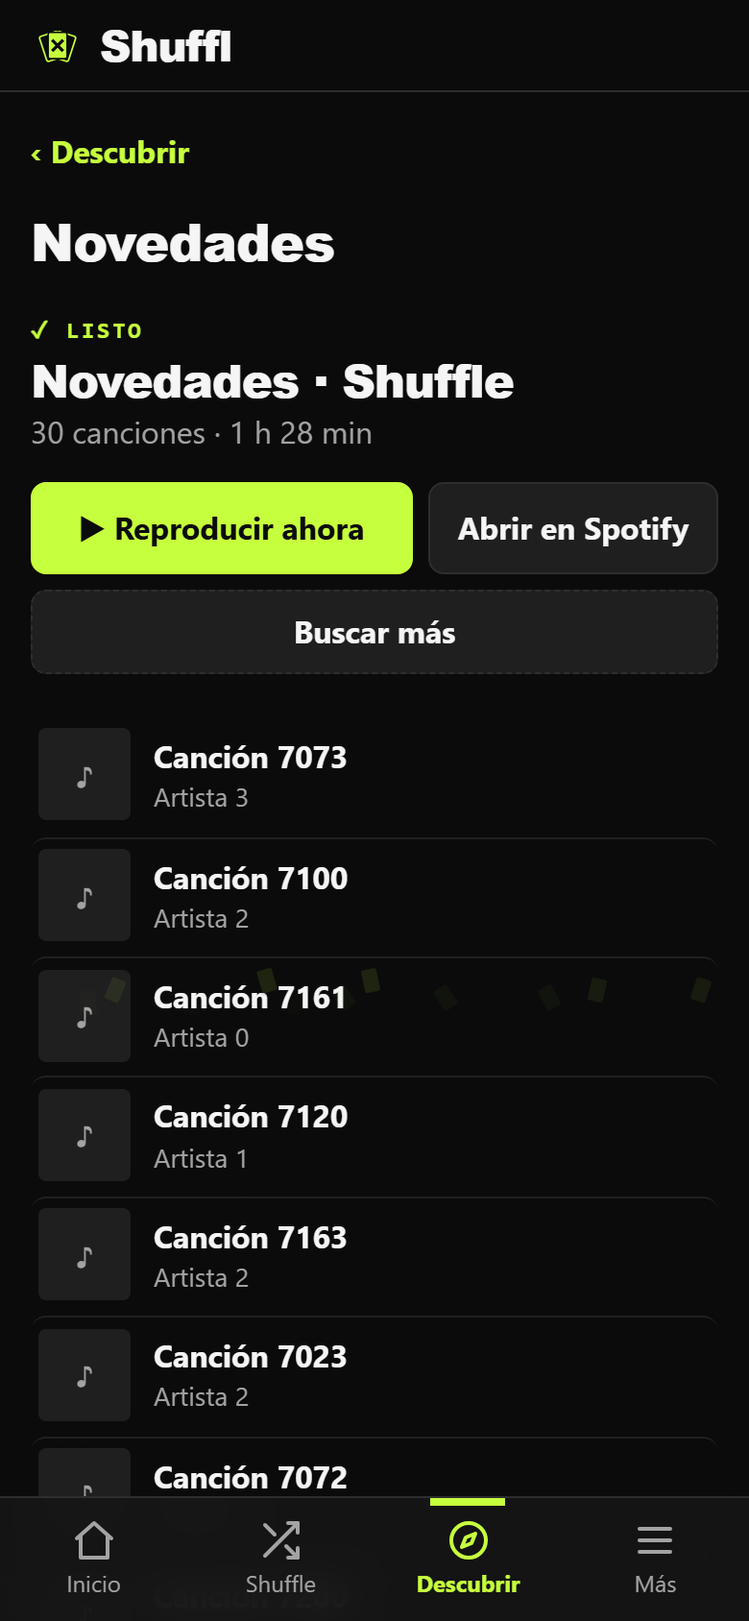
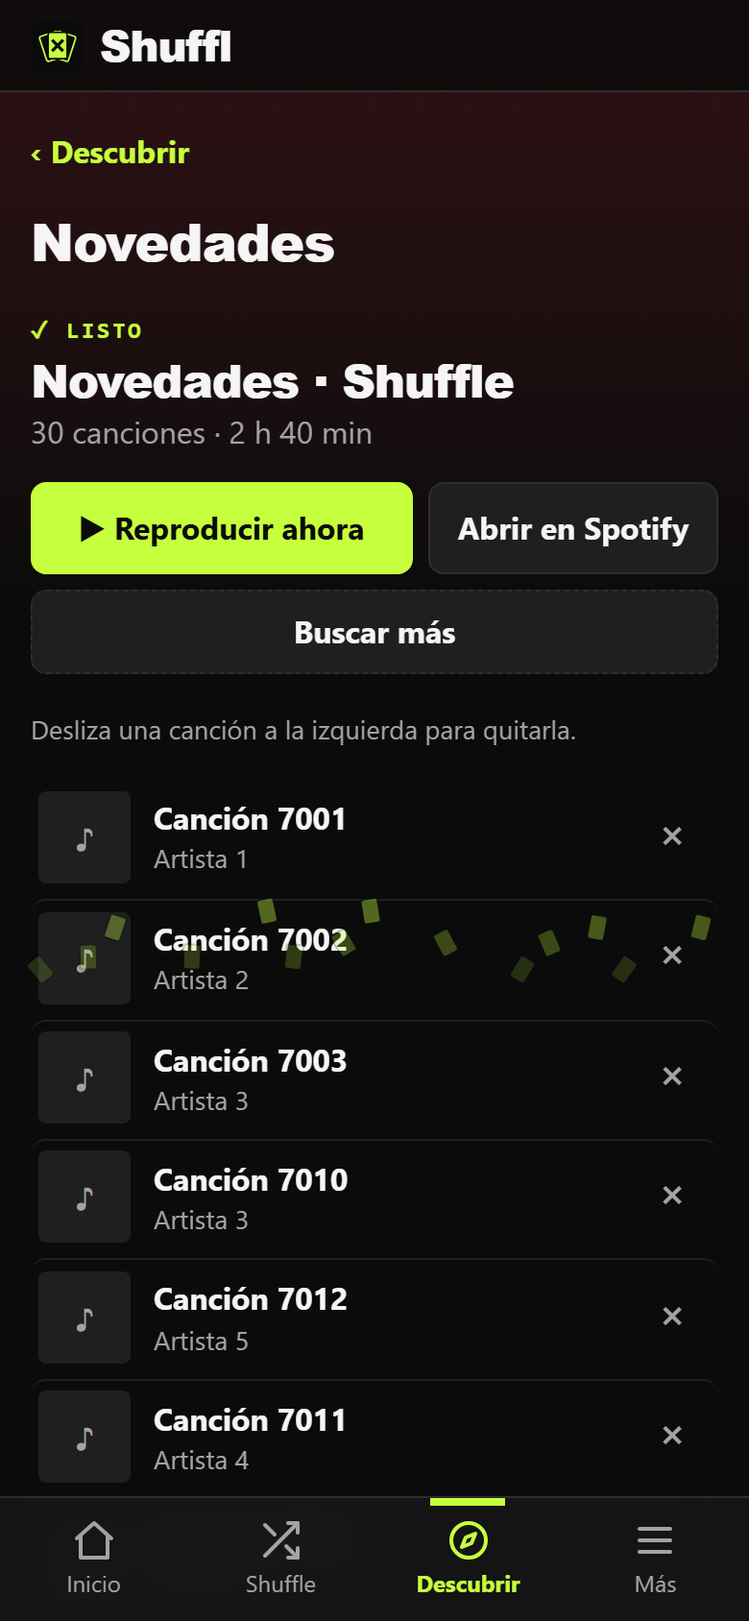
docs: v1.3.2 (decisiones con la tabla de peticiones, changelog y cómo probar)
DECISIONES recoge la tabla de peticiones antes y después y el porqué de
cada cambio; SIGUIENTES_PASOS explica cómo hacer la Prueba completa con
la cuenta real. PRIVACY describe la caché en IndexedDB y el registro de
errores; CLAUDE.md añade el GET del reproductor y las reglas de cuota y
errores. Capturas regeneradas con la interfaz nueva.

diff --git a/DECISIONES.md b/DECISIONES.md
@@ -2,6 +2,133 @@
 
 Trabajo hecho sin supervisión el 2026-11-23. Todo lo reversible lo decidí yo; lo demás está en [docs/bandeja.md](docs/bandeja.md).
 
+## v1.3.2 (2026-11-27): cero errores, cuota bajo control, shuffle por tiempo y carátulas en todas partes
+
+### Cuota: peticiones por acción
+
+Lo mide `tests/e2e/quota.spec.mjs` con una cuenta simulada de tamaño realista: 16 playlists (una de 600 canciones), 1500 Me gusta, 50 artistas top por periodo, 120 seguidos y lanzamientos para 120 artistas. Cuenta todas las peticiones a `api.spotify.com`, reintentos incluidos.
+
+| Acción | Antes (v1.3.1) | Ahora (v1.3.2) |
+|---|---|---|
+| Arranque (login y biblioteca) | 3 | 3 |
+| Shuffle de una playlist de 600 (1.ª vez) | 22 | 21 |
+| Shuffle de la misma playlist otra vez | 24 | 11 |
+| Volver a barajar | 9 | 8 |
+| Reproducir ahora | 3 | 4 (con la comprobación) |
+| Novedades (1.ª vez) | **202** | 32 |
+| Buscar más | 2* | 13 |
+| Descubre (después de Novedades) | 18 | 23 |
+| Descubre (1.ª vez, sin caché) | — | 25 |
+| Instantánea | 7 | 6 |
+| Tu resumen | 2 | 2 |
+| Tu resumen → playlist | 7 | 6 |
+| Olvidadas (1.ª vez, 1500 Me gusta) | 51* | 37 (31 son leer Me gusta) |
+| Olvidadas (2.ª vez) | 21* | 7 |
+| Comprobar conexión | — | 6 |
+| Prueba completa (con reproducción) | — | 14 |
+
+\* Olvidadas antes: medido con esta versión antes del tope de 100 (la v1.3.1 leía igual Me gusta y escribía todas). En la v1.3.1 «Buscar más» salía barato porque la primera búsqueda ya había leído 25 artistas de golpe; ahora cada búsqueda lee como mucho unas 30 peticiones y «Buscar más» sigue con los siguientes artistas.
+
+- **De dónde salían las 202 de Novedades**: el índice de «lo que ya tienes» leía todas tus playlists y Tus me gusta enteras (unas 70), dos peticiones por artista (álbumes y singles) para 25 artistas (50) y una por cada álbum reciente.
+- **Qué se ha cambiado**:
+  - **Caché persistente en IndexedDB** (`js/idb.js`), con el id de la cuenta en la clave. Las canciones de cada playlist valen mientras no cambie su `snapshot_id` (como mucho 30 días). Tus me gusta se valida con una sola petición: el total y la más reciente. Los álbumes valen 30 días (no cambian) y los artistas, lanzamientos y búsquedas, 24 h. Lo de más de 30 días se borra al abrir la app y todo al cerrar sesión. La caché de localStorage de la v1.3.1 (`metaCache`, `libIndex`) se borra al arrancar.
+  - **Lista de playlists reciente antes de fiarse de la caché**: si tiene más de un minuto, se relee (una petición por cada 50 playlists). Si cambiaste una en Spotify y vuelves, su `snapshot_id` ya no coincide y se vuelve a leer.
+  - **Lo que escribe en su propio origen no usa la caché**: «la misma playlist», Ordenar, Duplicados y Dividir leen siempre de Spotify, porque de esa lectura sale el Deshacer.
+  - **Excluir lo que ya tienes**:
+    - Tus me gusta ya no se lee entera: se pregunta a `/me/library/contains` solo por las candidatas, en lotes de 40.
+    - Tus playlists salen de la caché; las que cambiaron se leen con un tope de 8 peticiones por búsqueda (las que no caben usan su copia anterior o se leen la próxima vez).
+  - **Una petición por artista**: `include_groups=album,single` con `limit=10`. Un artista con más de 10 singles recientes puede dejar fuera un álbum; se acepta por la mitad de peticiones.
+  - **Tope por búsqueda**: `READ_BUDGET = 30` peticiones de lectura por búsqueda; la escritura (quitar la anterior, crear, añadir y portada) suma unas 6.
+    - «Artistas por búsqueda» (8, 15 o 25; por defecto 15) en «Más opciones», guardado en el dispositivo.
+    - «Buscar más» sigue con los artistas donde se quedó y con lo leído en la caché.
+    - De los seguidos se leen como mucho 2 páginas (100 artistas, el máximo que se recorre). Descubre empieza por 8 álbumes de lo que escuchas, en vez de 25.
+  - **Sin lecturas de más tras escribir**:
+    - Después de crear una playlist de Shuffl ya no se relee toda la biblioteca: no aparece en los selectores y las quitadas se descuentan en memoria. Solo se relee al escribir en tu propia playlist.
+    - «Buscar más» y «Volver a barajar» comprueban que la playlist sigue siendo de Shuffl con 2 peticiones (sus datos y `/me/library/contains`) en vez de leer toda la biblioteca.
+    - «Volver a barajar» no vuelve a subir la portada, que no cambia.
+  - **Olvidadas**: como mucho 100 canciones al azar entre las olvidadas. Una playlist de 1500 eran 15 peticiones solo para escribir. «Volver a barajar» elige otras 100.
+  - **Reintentos**: un 429 sin cuota se reintenta 2 veces (antes 5) y nunca si `Retry-After` pasa de 30 s. Un 5xx se reintenta 2 veces (antes 3). Las órdenes al reproductor no se repiten en el cliente: «Reproducir ahora» comprueba el resultado y decide.
+- **QUOTA_EXCEEDED**:
+  - Nunca se reintenta.
+  - En Novedades y Descubre, si llega a mitad de búsqueda y hay al menos 10 canciones, se crea la playlist con ellas y una nota; si hay menos, se explica sin crear nada.
+  - Mensaje: «Spotify limita cuántas búsquedas puede hacer la app. Vuelve a intentarlo en un rato.», sin «Reintentar» (gastaría más).
+  - El shuffle de una playlist ya leída sigue funcionando sin leerla (hay un test).
+- **Contador** en Diagnóstico: peticiones de la sesión, del día (en localStorage) y de las últimas 12 acciones. Lo cuenta `SpotifyApi` con `onRequest` antes de cada `fetch`.
+- **Lo que no se puede bajar**:
+  - Leer por primera vez una playlist o Tus me gusta cuesta una petición por cada 50 canciones.
+  - Escribir cuesta una por cada 100.
+  - Esa primera lectura de una biblioteca grande (Olvidadas con 3000 Me gusta, un shuffle de una playlist de 2000) pasa de 40 una vez; después sale de la caché.
+
+### Errores: mensaje humano y una acción
+
+- **`errorInfo`** clasifica cada error: sesión caducada, falta un permiso, cuenta no añadida en el dashboard, prohibido, Premium, no encontrado, ritmo, Spotify caído (5xx), sin red, cuota, respuesta incompleta o fallo inesperado.
+  - Para cada tipo da un texto en ES/EN y sus acciones: «Reintentar» si es pasajero, «Volver a conectar» con sesión o permisos, y «Abrir en Spotify» al reproducir.
+  - Ningún texto lleva códigos («403») ni mensajes de Spotify.
+  - Un `UserError` que envuelve otro («No se pudo crear la playlist: …») hereda la acción de su causa.
+- **`task`** ofrece «Reintentar» (repetir la acción, como volver a pulsar) en los errores pasajeros.
+- **Red de seguridad**: un error que no recoge ninguna pantalla (promesa sin capturar, excepción) se registra y sale en un aviso con «Diagnóstico». Si la sesión falla al arrancar, se ve el motivo con «Reintentar» y, si toca, «Volver a conectar»; nunca una pantalla en blanco.
+- **Respuestas raras**: JSON roto, playlist creada sin id, Me gusta sin total y listas sin `items` dan «respuesta incompleta», no un fallo raro.
+- **Registro local** (`baraja.errors`, 50 como mucho):
+  - Guarda fecha, pantalla, tipo, código de estado, `reason` de Spotify, la ruta de la API sin ids ni consulta (`GET /playlists/:id/items`) y el mensaje de Spotify con los ids tapados.
+  - Nunca el texto que ve la persona, que puede llevar nombres de playlists.
+  - «Copiar informe» usa el portapapeles; si no hay permiso, enseña el texto para copiarlo a mano.
+- **Reproducir ahora** (`js/player.js`, lógica pura con tests):
+  1. Lee los dispositivos y descarta los `is_restricted`. Usa el activo, o el único; si hay varios, pregunta.
+  2. Sin ninguno: «Abre Spotify un momento y vuelve a pulsar», con «Volver a intentar» y «Abrir en Spotify».
+  3. Orden: `play` con `context_uri` y `offset 0` en ese dispositivo y después `shuffle=false`. Así el orden funciona aunque el dispositivo estuviera inactivo, porque `shuffle` antes de `play` da 404.
+  4. Espera 1,2 s y lee `GET /me/player`: suena esta playlist, sin aleatorio ni aleatorio inteligente y no en pausa. Si no, repite la orden una vez y lo explica.
+  - Casos: `NO_ACTIVE_DEVICE`, dormido (502/503), restringido, sin Premium, prohibido, aleatorio que no se apaga, orden aceptada pero no ejecutada (204 sin efecto) y sin poder comprobar («Enviada a…»). Sin Premium, restringido y prohibido no se reintentan.
+  - `GET /me/player` usa el scope `user-read-playback-state`, que ya se pedía; se añade a la lista de CLAUDE.md.
+- **Prueba completa** (Más → Diagnóstico, unas 14 peticiones):
+  1. Sesión.
+  2. Leer playlists.
+  3. Permisos.
+  4. Una canción (la última de Me gusta o la primera de una playlist tuya).
+  5. Crear la playlist de prueba de Shuffl con esa canción.
+  6. Sobrescribirla y comprobar el total.
+  7. Reconocerla como de Shuffl.
+  8. Dispositivos.
+  9. Reproducir y comprobar (opcional, marcado por defecto y avisando de que sonará una canción).
+  10. Quitarla.
+  - La playlist de prueba se quita aunque falle un paso intermedio.
+  - El informe lleva el resultado de cada paso sin nombres (ni el de la cuenta ni el del dispositivo).
+- **Diagnóstico** pasa de Ajustes a su propia pantalla en Más, con «Comprobar conexión» incluido.
+- **Tests e2e** para 401, 403 (dashboard, scope y prohibido), 404, 429 con y sin cuota, 5xx, red caída, respuestas con huecos, sin dispositivo, dormido, restringido, sin Premium, orden ignorada, aleatorio que no se apaga y error inesperado. El mock admite fallos a medida (`state.failures`: ruta, estado, cuerpo, `times` y `skip`) y el estado del reproductor.
+
+### Shuffle por tiempo, a la vista
+
+- Bajo las playlists, «¿Cuánto?»: **Toda la playlist / Por tiempo**. Por tiempo enseña 5 accesos rápidos (Trayecto 20, Gym 45, Correr 30, Viaje 90, Dormir 30) y «A medida», con un deslizador de 5 a 180 min de 5 en 5. El botón dice «Barajar 45 min».
+- Correr y Dormir duran lo mismo (30 min), así que se guarda la clave del acceso, no solo los minutos. Si una mezcla trae una clave que no existe o unos minutos que no son los del acceso, se trata como «a medida».
+- Nombres: «Gym 45 min · Shuffle» con un acceso rápido y «Rock · 45 min · Shuffle» a medida. Si el origen es largo se recorta él, nunca los minutos. Como llevan la etiqueta con el resumen del nombre, se reconocen como de Shuffl y, si se renombran, no se borran.
+- Las mezclas de antes con más de 180 min se cargan con el deslizador a 180.
+- El resultado dice «Listo · 45 min ± 2» y la duración real («22 canciones · 44 min»).
+- **Siri**: los atajos abren una mezcla guardada, que ahora recuerda el tiempo y el acceso rápido. No se añade un parámetro de tiempo a los enlaces `?origen=`, para no ampliar lo que acepta un enlace de fuera.
+
+### Carátulas en todas partes
+
+- Una fila común (`trackRow` + `coverSlot`) en resultados (Shuffle, Novedades, Descubre, Olvidadas, Instantáneas, Mi top, Ordenar, Me gusta sin playlist), en las listas de Tu resumen (artistas y canciones), en los grupos de Duplicados y en las partes de Dividir (con la carátula de su primera canción).
+- El hueco mide siempre 48×48 con ♪ de fondo y la imagen va encima, en diferido (`loading="lazy"`) y con `object-fit: contain`: nada salta, no se recorta ni se pone nada encima. Si la imagen falla, se quita y queda el hueco.
+- **Imagen**: la que ya trae la respuesta, sin peticiones extra. `pickThumb` elige la más pequeña que llega a 120 px (48 px en pantallas de 3x); si Spotify no da tamaños, la penúltima (la de 300).
+- **Por qué faltaban en Descubre**: los álbumes de «lo que escuchas» se pedían sin sus imágenes. Ahora llevan la miniatura de la canción escuchada, y los lanzamientos guardan todas sus imágenes con tamaño, no solo las dos últimas.
+- En la Copia de seguridad se listan playlists de un archivo, que no traen imagen, y se dejan como estaban.
+- La carátula de la tarjeta de Inicio pasa de `cover` a `contain` (no se recorta).
+- **Test** (`tests/e2e/covers.spec.mjs`): recorre todas esas pantallas y falla si una fila no tiene su carátula https de 48×48 entera.
+
+### Más interactiva
+
+- **Flujo elegido**: guardar con un toque, como antes, y editar después. Una vista previa antes de enviar añadiría un paso a cada shuffle y a Siri.
+  - **Quitar**: en el resultado, deslizar una canción a la izquierda (o tocar su ×, accesible con teclado y lector) la quita. Los cambios se guardan de una vez 1,2 s después del último, tras comprobar que la playlist sigue siendo de Shuffl.
+  - **Rebarajar**: el botón «Volver a barajar» (con el icono de la app) o tirar hacia abajo rebarajan la misma playlist. Las quitadas no vuelven.
+  - Solo en playlists de Shuffl, nunca en la tuya («la misma playlist»).
+  - «Buscar más» guarda antes lo pendiente.
+  - Tirar hacia abajo fuera de un resultado sigue refrescando tus playlists.
+- **Animaciones**:
+  - Las carátulas se reparten como naipes al aparecer (solo `transform` y `opacity`, 45 ms de desfase entre filas).
+  - El fondo toma el color dominante de la portada del origen o, en Descubrir, de la primera carátula.
+  - Los botones responden al toque con una pequeña escala.
+  - Con «reducir movimiento» no hay animaciones (regla global de la v1.2).
+- **Estados vacíos** con una ilustración en SVG (tres naipes con una nota) en Descubrir, Olvidadas, Tu resumen y Me gusta sin playlist.
+
 ## v1.3.1 (2026-11-27): correcciones tras probar con Spotify real en el iPhone
 
 - **Por qué no se borraba nada**:

diff --git a/README.md b/README.md
@@ -22,10 +22,10 @@ Las funciones salen de quejas reales de usuarios (hilos de Spotify Community, pr
 
 ![Inicio](docs/capturas/08-inicio.png)
 
-- Cuatro pestañas: **Inicio · Shuffle · Descubrir · Más**. En Más están Ordenar, Duplicados, Copia, Instantáneas, Me gusta sin playlist, Dividir, «Tenerla siempre a mano», «¿Es aleatorio de verdad?» y Ajustes.
+- Cuatro pestañas: **Inicio · Shuffle · Descubrir · Más**. En Más están Ordenar, Duplicados, Copia, Instantáneas, Me gusta sin playlist, Dividir, «Tenerla siempre a mano», «¿Es aleatorio de verdad?», Diagnóstico y Ajustes.
 - Inicio tiene una tarjeta con tu última baraja (carátula, nombre y fecha) y «Volver a barajar»; la primera vez, «Empezar». Debajo, «Lo último» y tus mezclas guardadas.
 - Negro y verde lima. Tema oscuro por defecto, claro (blanco con verde oscuro) o como el sistema, en Ajustes. El fondo toma un degradado sutil del color de la portada seleccionada.
-- Cambio de pantalla inmediato con un fundido corto y sin saltos (cada pestaña recuerda dónde la dejaste), pantalla «Barajando…» con naipes que se mezclan y el paso real, resultado en cascada con una celebración discreta, esqueletos de carga, deslizar a los lados para cambiar de pestaña y tirar hacia abajo para refrescar. Con «reducir movimiento» no hay animaciones.
+- Cambio de pantalla inmediato con un fundido corto y sin saltos (cada pestaña recuerda dónde la dejaste), pantalla «Barajando…» con naipes que se mezclan y el paso real, resultado con las carátulas repartiéndose como naipes y una celebración discreta, esqueletos de carga, deslizar a los lados para cambiar de pestaña y tirar hacia abajo para refrescar. Con «reducir movimiento» no hay animaciones.
 - **Agitar para barajar**: en Inicio, agitar el móvil vuelve a barajar la última mezcla, siempre tras confirmar. En iPhone hay que activarlo con un toque (permiso del acelerómetro); se desactiva en Ajustes.
 
 ![Tema claro](docs/capturas/09-tema-claro.png)
@@ -36,7 +36,7 @@ Las funciones salen de quejas reales de usuarios (hilos de Spotify Community, pr
 
 ![Barajar](docs/capturas/02-barajar.png)
 
-- Un solo modo, por canciones. En «Más opciones» está **Por tiempo**: 15, 30, 45, 60 min o los que quieras; se baraja de forma uniforme y se llena el tiempo con ±2 min («35 min · Shuffle»), para el trayecto, el gym o correr.
+- Debajo de las playlists eliges **Toda la playlist** o **Por tiempo**. Por tiempo tiene accesos rápidos (🚗 Trayecto 20 min, 🏋 Gym 45, 🏃 Correr 30, ✈ Viaje 90, 😴 Dormir 30) y «A medida», con un deslizador de 5 a 180 min. Se baraja de forma uniforme y se llena el tiempo con ±2 min: «Gym 45 min · Shuffle» o, a medida, «Rock · 45 min · Shuffle». Las mezclas guardadas y los atajos de Siri recuerdan el tiempo.
 - Quitar repetidas, filtros, destino, pegar enlace y guardar como mezcla también están en «Más opciones»; sin tocarlos funciona bien.
 
 ![Shuffle por tiempo](docs/capturas/24-shuffle-tiempo.png)
@@ -46,7 +46,8 @@ Las funciones salen de quejas reales de usuarios (hilos de Spotify Community, pr
   - Una playlist nueva de Shuffl (por defecto): «Reggaeton · Shuffle», «Tus me gusta · Shuffle», «Mix · Shuffle» (varias playlists; la descripción las lista), «Coche · Shuffle» (mezcla guardada) o «Toda mi música · Shuffle». Sustituye a la anterior de Shuffl (ver abajo).
   - La propia playlist, solo con una playlist tuya y con confirmación.
 - La portada de la playlist generada lleva el icono de Shuffl, el nombre del origen y la fecha (se desactiva en Ajustes).
-- El resultado enseña el nombre, las canciones y la duración, con «▶ Reproducir ahora» (Premium) y «Abrir en Spotify», y la lista de canciones con la carátula de su álbum. También puedes volver a barajar, compartirla o pulsar Deshacer.
+- El resultado enseña el nombre, las canciones y la duración, con «▶ Reproducir ahora» (Premium) y «Abrir en Spotify», y la lista de canciones con la carátula de su álbum. Desliza una canción a la izquierda (o toca su ×) para quitarla de la playlist; tira hacia abajo o toca «Volver a barajar» para rebarajarla al momento. También puedes compartirla o pulsar Deshacer.
+- «Reproducir ahora» busca tu Spotify, pone la playlist desde la primera canción, apaga el aleatorio y comprueba que de verdad suena así. Si el móvil no está activo, pide abrir Spotify un momento; sin Premium, en un dispositivo que no se deja controlar o si Spotify no hace caso, lo explica y ofrece abrirla en Spotify.
 
 ![Resultado de barajar](docs/capturas/03-resultado-barajar.png)
 
@@ -57,7 +58,7 @@ Las funciones salen de quejas reales de usuarios (hilos de Spotify Community, pr
 - Cada vez que Shuffl va a crear una playlist (shuffle, Descubrir, Olvidadas, Instantáneas, Mi top), primero lee las canciones, después quita de tu biblioteca todas las playlists que creó antes y por último crea la nueva. Así solo existe una, la última.
 - Son de Shuffl las tuyas con su etiqueta en la descripción (` · shuffl:src=<hash>`, sin ids ni nombres) o, las de versiones anteriores, con un nombre «… · Shuffle», «📸 …» o «🔀 Baraja» y una descripción de las que ponía la app. Nunca se tocan las que renombraste, las de otras personas, las colaborativas ni las que no tienen esa descripción, y no se ofrecen como origen.
 - La primera vez se enseña la lista con «Borrar y no volver a preguntar»; después es automático, con un aviso. Se desactiva en Ajustes. Lo quitado se recupera durante 90 días en spotify.com → Cuenta → Recuperar playlists.
-- Si quitar o crear falla, se ve el error real de Spotify con «Reintentar» (las canciones siguen en memoria). «Comprobar conexión», en Ajustes, prueba que Shuffl puede quitar playlists.
+- Si quitar o crear falla, se explica qué ha pasado con «Reintentar» (las canciones siguen en memoria). «Comprobar conexión», en Más → Diagnóstico, prueba que Shuffl puede quitar playlists.
 - Como cada shuffle crea una playlist nueva, el pin de Tu biblioteca no se conserva: ordena Tu biblioteca por «Recientes» para tenerla arriba.
 
 ### Descubrir
@@ -67,10 +68,14 @@ Spotify ya no ofrece recomendaciones a apps como esta, así que Shuffl las busca
 - **Novedades**: lanzamientos de los últimos 7, 30 o 90 días.
 - **Descubre**: canciones de los álbumes que escuchas y de tus artistas.
 - En las dos: unas 30 canciones y «Buscar más» para añadir otras 30 a la misma playlist; en «Más opciones», número (15-100) o duración (30-90 min). Se basan en tus artistas, en una playlist tuya («Como mi playlist…») o en un género (si Spotify da géneros para tus artistas). Nunca salen canciones que ya tienes en tus playlists o en Tus me gusta.
-- **Olvidadas**: Me gusta de hace más de 1, 2, 3 o 5 años.
+- **Olvidadas**: 100 al azar entre tus Me gusta de hace más de 1, 2, 3 o 5 años.
 - **Tu resumen**: tus 5 artistas y canciones top (4 semanas, 6 meses o siempre) en una tarjeta vertical para historias (1080×1920) y otra cuadrada, para compartir o descargar. Las carátulas van enteras y sin nada encima, junto al logo de Spotify. Puedes crear «Mi top · Shuffle».
 
-Lo que se lee de Spotify (artistas, lanzamientos, canciones de cada álbum y qué canciones tienes) se guarda en el dispositivo hasta 24 h para gastar menos peticiones.
+Spotify limita cuántas peticiones hace cada app, así que Shuffl ahorra: cada búsqueda se para en unas 30 lecturas (en «Más opciones» eliges cuántos artistas mira cada vez), «Buscar más» sigue donde se quedó y lo leído se guarda en el dispositivo (IndexedDB): canciones de tus playlists mientras no cambien, álbumes 30 días, artistas y lanzamientos 24 h. Para no proponerte lo que ya tienes en Me gusta, solo pregunta por las canciones candidatas. Si Spotify corta a mitad, se guarda lo conseguido.
+
+### Diagnóstico
+
+En Más → Diagnóstico: cuántas peticiones lleva la sesión y el día (y cada acción), «Comprobar conexión», una **Prueba completa** que con tu cuenta comprueba paso a paso entrar, leer, crear, sobrescribir y quitar una playlist de prueba, tus dispositivos y la reproducción, y el registro de los últimos errores con «Copiar informe» (sin nombres ni tokens). Ningún error sale en código: siempre un mensaje claro con «Reintentar», «Volver a conectar» o «Abrir en Spotify».
 
 ![Descubrir](docs/capturas/21-descubrir.png)
 

diff --git a/README.en.md b/README.en.md
@@ -24,10 +24,10 @@ The app interface is available in Spanish and English; the screenshots are in Sp
 
 ![Home](docs/capturas/08-inicio.png)
 
-- Four tabs: **Home · Shuffle · Discover · More**. More holds Sort, Duplicates, Backup, Snapshots, Liked without playlist, Split, "Keep it at hand", "Is it really random?" and Settings.
+- Four tabs: **Home · Shuffle · Discover · More**. More holds Sort, Duplicates, Backup, Snapshots, Liked without playlist, Split, "Keep it at hand", "Is it really random?", Diagnostics and Settings.
 - Home shows a card with your last shuffle (cover, name and date) and "Shuffle again"; the first time, "Get started". Below, "Recent" and your saved mixes.
 - Black and lime green. Dark theme by default, light (white with dark green) or like the system, in Settings. The background takes a subtle gradient from the selected cover's colour.
-- Instant screen changes with a short fade and no jumps (each tab remembers where you left it), a "Shuffling…" screen with cards shuffling and the real step, cascading results with a discreet celebration, loading skeletons, swipe sideways to change tab and pull down to refresh. With "reduce motion" there are no animations.
+- Instant screen changes with a short fade and no jumps (each tab remembers where you left it), a "Shuffling…" screen with cards shuffling and the real step, results with the covers dealt like cards and a discreet celebration, loading skeletons, swipe sideways to change tab and pull down to refresh. With "reduce motion" there are no animations.
 - **Shake to shuffle**: on Home, shaking the phone reshuffles the last mix, always after confirming. On iPhone it has to be turned on with a tap (motion sensor permission); it can be switched off in Settings.
 
 ![Light theme](docs/capturas/09-tema-claro.png)
@@ -38,7 +38,7 @@ The app interface is available in Spanish and English; the screenshots are in Sp
 
 ![Shuffle](docs/capturas/02-barajar.png)
 
-- One mode, by songs. "More options" holds **By time**: 15, 30, 45, 60 min or any length; it shuffles uniformly and fills the time within ±2 min ("35 min · Shuffle"), for your commute, workout or run.
+- Below the playlists you pick **Whole playlist** or **By time**. By time has quick picks (🚗 Commute 20 min, 🏋 Gym 45, 🏃 Run 30, ✈ Trip 90, 😴 Sleep 30) and "Custom", with a 5-180 min slider. It shuffles uniformly and fills the time within ±2 min: "Gym 45 min · Shuffle" or, custom, "Rock · 45 min · Shuffle". Saved mixes and Siri shortcuts remember the time.
 - Remove repeats, filters, destination, paste a link and save as mix are also under "More options"; it works well without touching them.
 
 ![Shuffle by time](docs/capturas/24-shuffle-tiempo.png)
@@ -48,7 +48,8 @@ The app interface is available in Spanish and English; the screenshots are in Sp
   - A new Shuffl playlist (default): "Reggaeton · Shuffle", "Liked Songs · Shuffle", "Mix · Shuffle" (several playlists; the description lists them), "Car · Shuffle" (saved mix) or "All my music · Shuffle". It replaces the previous Shuffl one (see below).
   - The playlist itself, only for one of your own playlists and with confirmation.
 - The generated playlist's cover shows the Shuffl icon, the source name and the date (can be turned off in Settings).
-- The result shows the name, songs and length, with "▶ Play now" (Premium) and "Open in Spotify", and the song list with each album cover. You can also shuffle again, share it or press Undo.
+- The result shows the name, songs and length, with "▶ Play now" (Premium) and "Open in Spotify", and the song list with each album cover. Swipe a song left (or tap its ×) to remove it from the playlist; pull down or tap "Shuffle again" to reshuffle it right away. You can also share it or press Undo.
+- "Play now" finds your Spotify, starts the playlist from the first song, turns shuffle off and checks that it really plays that way. If the phone is not active, it asks you to open Spotify for a moment; without Premium, on a device that cannot be controlled or if Spotify ignores the command, it explains and offers to open it in Spotify.
 
 ![Shuffle result](docs/capturas/03-resultado-barajar.png)
 
@@ -59,7 +60,7 @@ The app interface is available in Spanish and English; the screenshots are in Sp
 - Every time Shuffl is about to create a playlist (shuffle, Discover, Forgotten, Snapshots, My top), it first reads the songs, then removes from your library every playlist it created before, and then creates the new one. So only one exists: the latest.
 - Shuffl playlists are your own ones with its tag in the description (` · shuffl:src=<hash>`, no ids or names) or, from older versions, with a "… · Shuffle", "📸 …" or "🔀 Baraja" name and a description the app used to write. Renamed playlists, other people's, collaborative ones and those without that description are never touched, and they are not offered as a source.
 - The first time it shows the list with "Remove and don't ask again"; after that it is automatic, with a notice. It can be turned off in Settings. Removed playlists can be recovered for 90 days on spotify.com → Account → Recover playlists.
-- If removing or creating fails, you see Spotify's real error with "Retry" (the songs stay in memory). "Check connection" in Settings tests that Shuffl can remove playlists.
+- If removing or creating fails, it explains what happened with "Retry" (the songs stay in memory). "Check connection", in More → Diagnostics, tests that Shuffl can remove playlists.
 - Since every shuffle creates a new playlist, the pin in Your Library is not kept: sort Your Library by "Recents" to keep it at the top.
 
 ### Discover
@@ -69,10 +70,14 @@ Spotify no longer offers recommendations to apps like this one, so Shuffl finds 
 - **New releases**: releases from the last 7, 30 or 90 days.
 - **Explore**: songs from the albums you play and from your artists.
 - In both: about 30 songs and "Find more" to add 30 more to the same playlist; under "More options", a number (15-100) or a length (30-90 min). They can be based on your artists, on one of your playlists ("Like my playlist…") or on a genre (if Spotify gives genres for your artists). They never include songs you already have in your playlists or Liked Songs.
-- **Forgotten**: Liked Songs from over 1, 2, 3 or 5 years ago.
+- **Forgotten**: 100 at random from your Liked Songs from over 1, 2, 3 or 5 years ago.
 - **Your summary**: your top 5 artists and songs (4 weeks, 6 months or all time) on a vertical story card (1080×1920) and a square one, to share or download. Covers are shown whole with nothing on top, next to the Spotify logo. You can create "My top · Shuffle".
 
-What is read from Spotify (artists, releases, album songs and which songs you have) is kept on the device for up to 24 h to use fewer requests.
+Spotify limits how many requests each app makes, so Shuffl saves them: each search stops after about 30 reads (under "More options" you choose how many artists it looks at each time), "Find more" continues where it left off and what is read is kept on the device (IndexedDB): your playlists' songs while they do not change, albums for 30 days, artists and releases for 24 h. To avoid suggesting what is already in your Liked Songs, it only asks about the candidate songs. If Spotify cuts off halfway, what was found is kept.
+
+### Diagnostics
+
+In More → Diagnostics: how many requests the session and the day have used (and each action), "Check connection", a **Full test** that, with your account, checks step by step signing in, reading, creating, overwriting and removing a test playlist, your devices and playback, and the log of the latest errors with "Copy report" (no names or tokens). No error is shown as a code: always a clear message with "Retry", "Connect again" or "Open in Spotify".
 
 ![Discover](docs/capturas/21-descubrir.png)
 

diff --git a/SIGUIENTES_PASOS.md b/SIGUIENTES_PASOS.md
@@ -1,23 +1,29 @@
 # Siguientes pasos
 
-## 1. Qué hay hecho (v1.3.1)
-- Solo una playlist de Shuffl a la vez: antes de crear una se quitan todas las anteriores. La app pide dos permisos nuevos para poder quitarlas.
-- Cambio de pestaña limpio, Inicio con la tarjeta de la última baraja, pantalla «Barajando…» y resultado con carátulas.
-- Novedades y Descubre: 30 canciones, «Buscar más», número o duración, estilo, y sin lo que ya tienes. Se quitan «Tal día como hoy» y «Por álbumes».
+## 1. Qué hay hecho (v1.3.2)
+- Mucha menos cuota de Spotify: caché en el dispositivo y un tope de unas 30 lecturas por búsqueda. Novedades pasa de unas 200 peticiones a 32 (tabla en `DECISIONES.md`).
+- Errores en palabras normales y siempre con una acción. «Reproducir ahora» comprueba que de verdad suena la playlist en orden.
+- Más → Diagnóstico: contador de peticiones, «Prueba completa» y «Copiar informe».
+- Shuffle por tiempo a la vista, con accesos rápidos y «A medida».
+- Carátulas en todas las listas. Quitar canciones deslizando y tirar hacia abajo para volver a barajar.
 - Detalle en `CHANGELOG.md` y decisiones en `DECISIONES.md`.
 
-## 2. Qué probar con Spotify real (en el iPhone)
-1. **Volver a conectar**: al abrir saldrá «vuelve a conectar con Spotify». Acepta los permisos nuevos.
-2. **Que borre**: en Más → Ajustes → «Comprobar conexión», la fila «Quitar playlists» debe salir con ✓. Si sale ✗, apunta el mensaje y avísame.
-3. **Solo una playlist de Shuffl**:
-   - Baraja algo. La primera vez saldrá la lista de lo que se va a quitar («12 years ago · Shuffle», «Spanish Rap · Shuffle», «📸 Recently played»…); comprueba que no aparece ninguna playlist tuya y pulsa «Borrar y no volver a preguntar».
-   - En Spotify debe quedar solo la nueva.
-   - Baraja otra vez y otra cosa: siempre una sola.
-   - Comprueba que tus playlists (las renombradas incluidas) siguen ahí.
-4. **Transiciones**: cambia rápido entre Inicio, Shuffle, Descubrir y Más en la app instalada. No debe vibrar ni saltar, y cada pestaña debe volver a donde la dejaste.
-5. **Novedades y Descubre**: que salgan unas 30 canciones que no tienes, que «Buscar más» añada otras 30 a la misma playlist y que «Como mi playlist…» tenga sentido. Si no ves la opción «Un género», Spotify no está dando géneros para tus artistas (es normal; está documentado).
-6. **Carátulas del resultado**: que se vean nítidas y enteras.
+## 2. Cómo hacer la «Prueba completa» con tu cuenta (en el iPhone)
+1. Abre Spotify en el iPhone y pon cualquier canción unos segundos, para que el móvil cuente como dispositivo activo. Después vuelve a Shuffl.
+2. En Shuffl: **Más → Diagnóstico → Hacer la prueba completa**. Deja marcada «Probar también a reproducir»: sonará una canción de tus Me gusta en tu Spotify.
+3. Espera a que salgan los 10 pasos. Gasta unas 15 peticiones.
+   - Todo con ✓ y «Todo funciona.»: listo.
+   - Algún ✗: pulsa **Copiar informe** y pégamelo. No lleva nombres de playlists, canciones ni dispositivos, ni tokens.
+4. Comprueba en Spotify que no se ha quedado la playlist «Shuffl · prueba de borrado & limpieza». Si se queda, el paso «Quitarla» habrá salido con ✗ y el informe dirá por qué.
 
-## 3. Pendiente
+## 3. Qué más probar con Spotify real
+1. **Cuota**: haz Novedades y «Buscar más» un par de veces y mira en Diagnóstico «Peticiones a Spotify»: ninguna acción debería pasar de unas 40. Si sale «Spotify limita cuántas búsquedas…», espera un rato. Mientras tanto, barajar tus playlists ya leídas debería seguir funcionando.
+2. **Reproducir ahora**: con Spotify abierto debe decir «Sonando en tu iPhone, en este orden». Con Spotify cerrado del todo debe decir «Abre Spotify un momento y vuelve a pulsar».
+3. **Por tiempo**: en Shuffle, «Por tiempo» → «Gym». Tiene que crear «Gym 45 min · Shuffle» de unos 43-47 min. Guárdala como mezcla y prueba el atajo de Siri.
+4. **Quitar y rebarajar**: en el resultado, desliza una canción a la izquierda y comprueba en Spotify que ya no está. Tira hacia abajo para volver a barajar.
+5. **Carátulas**: en Novedades, Descubre, Olvidadas, Tu resumen y Duplicados, todas las filas con su carátula y sin saltos al cargar.
+6. **Errores**: activa el modo avión y baraja una playlist nueva: debe salir «No hay conexión» con «Reintentar». Quita el modo avión y pulsa «Reintentar».
+
+## 4. Pendiente
 - «Tal día como hoy» real con el archivo de datos de Spotify, y «Similares» con MetaBrainz: ideas en `ROADMAP.md`.
 - Pendiente de la v1.2: Siri en el iPhone depende de Safari.

diff --git a/CHANGELOG.md b/CHANGELOG.md
@@ -2,6 +2,45 @@
 
 Formato basado en [Keep a Changelog](https://keepachangelog.com/es-ES/1.1.0/). El proyecto sigue [Versionado Semántico](https://semver.org/lang/es/).
 
+## [1.3.2] - 2026-11-27
+
+Que no falle nada con una cuenta real, mucha menos cuota de Spotify, el shuffle por tiempo a la vista y carátulas en todas las listas.
+
+### Cambiado
+
+- **Mucha menos cuota de Spotify**. Novedades pasa de unas 200 peticiones a 32, y ninguna acción normal pasa de 40 (tabla en `DECISIONES.md`).
+  - Lo leído se guarda en el dispositivo (IndexedDB). Una playlist que no ha cambiado no se vuelve a leer, y Tus me gusta se comprueba con una sola petición.
+  - Para no proponerte lo que ya tienes en Me gusta, solo se pregunta por las canciones candidatas.
+  - Cada búsqueda de Novedades o Descubre se para tras unas 30 lecturas; «Buscar más» sigue donde se quedó. En «Más opciones» eliges cuántos artistas mira cada vez.
+- **Si Spotify agota la cuota**, no se reintenta. Novedades y Descubre guardan lo conseguido si llega a 10 canciones, y el mensaje es claro: «Spotify limita cuántas búsquedas puede hacer la app. Vuelve a intentarlo en un rato.».
+- **Shuffle por tiempo, a la vista**: «Toda la playlist / Por tiempo» bajo las playlists.
+  - Accesos rápidos: 🚗 Trayecto 20 min, 🏋 Gym 45, 🏃 Correr 30, ✈ Viaje 90 y 😴 Dormir 30, o «A medida» de 5 a 180 min.
+  - Nombres: «Gym 45 min · Shuffle» o «Rock · 45 min · Shuffle».
+  - Las mezclas guardadas y los atajos de Siri lo recuerdan.
+- **Reproducir ahora**:
+  - Pone la playlist desde la primera canción, apaga el aleatorio y **comprueba** que suena así; si no, lo intenta otra vez y explica qué pasa.
+  - Si el móvil no está activo: «Abre Spotify un momento y vuelve a pulsar», con «Abrir en Spotify».
+  - Explica también: sin Premium, dispositivo que no se deja controlar, dormido, aleatorio que no se apaga u orden que Spotify no cumple.
+- **Errores en palabras normales**: ningún código ni texto técnico, siempre con una acción («Reintentar», «Volver a conectar», «Abrir en Spotify»). Un fallo inesperado sale en un aviso, nunca una pantalla en blanco.
+- **Olvidadas**: 100 al azar entre las olvidadas; «Volver a barajar» elige otras.
+- «Comprobar conexión» pasa a Más → Diagnóstico.
+
+### Añadido
+
+- **Más → Diagnóstico**:
+  - Peticiones de la sesión, del día y de cada acción.
+  - **Prueba completa** con tu cuenta, paso a paso: sesión, leer, crear, sobrescribir y quitar una playlist de prueba, dispositivos y reproducción.
+  - Registro de los últimos errores con «Copiar informe», sin nombres ni tokens.
+- **Carátulas en todas las listas**: resultados, Novedades, Descubre, Olvidadas, Instantáneas, Tu resumen, Duplicados, Ordenar, Me gusta sin playlist y Dividir.
+  - Enteras, a 48 px y en diferido, con un hueco del mismo tamaño mientras cargan.
+- **Quitar canciones** del resultado deslizando a la izquierda (o con ×), y **tirar hacia abajo para volver a barajar**.
+- Las carátulas del resultado se reparten como naipes, el fondo toma el color de la portada y los estados vacíos llevan una ilustración.
+
+### Corregido
+
+- En Descubre faltaban carátulas: los álbumes de lo que escuchas se pedían sin imagen.
+- La carátula de Inicio ya no se recorta.
+
 ## [1.3.1] - 2026-11-27
 
 Correcciones tras probar con Spotify real en el iPhone. **Hay que volver a conectar con Spotify una vez**: quitar playlists necesita dos permisos nuevos.

diff --git a/CLAUDE.md b/CLAUDE.md
@@ -10,8 +10,10 @@ PWA estática (HTML + CSS + JS vanilla con ES modules, sin build ni dependencias
 
 ## Reglas propias
 - El barajado es uniforme y puro: sin pesos, sin evitar lo escuchado, sin reglas de artista.
-- Solo endpoints de Development Mode (feb 2026): /me, /me/playlists (GET y POST), /playlists/{id} (GET de metadatos y PUT de nombre y descripción de playlists propias), /playlists/{id}/items, /playlists/{id}/images, /me/tracks, /me/albums, /me/following, /me/top/tracks, /me/top/artists, /me/player (devices, play, shuffle, recently-played), /me/library/contains (máx. 40), DELETE /me/library (solo URIs `spotify:playlist:` de playlists de Shuffl propias, máx. 40; exige user-library-modify y user-follow-modify), /artists/{id}/albums (limit ≤ 10), /albums/{id}/tracks, /search (solo type=artist con genre:, limit ≤ 10). Nada de browse, recomendaciones, audio-features, `popularity`, `/users/{id}/...`, `/tracks` en lotes ni `/playlists/{id}/tracks`. Cualquier endpoint nuevo hay que comprobarlo contra esa lista.
+- Solo endpoints de Development Mode (feb 2026): /me, /me/playlists (GET y POST), /playlists/{id} (GET de metadatos y PUT de nombre y descripción de playlists propias), /playlists/{id}/items, /playlists/{id}/images, /me/tracks, /me/albums, /me/following, /me/top/tracks, /me/top/artists, /me/player (GET del estado para comprobar qué suena, devices, play, shuffle, recently-played), /me/library/contains (máx. 40), DELETE /me/library (solo URIs `spotify:playlist:` de playlists de Shuffl propias, máx. 40; exige user-library-modify y user-follow-modify), /artists/{id}/albums (limit ≤ 10), /albums/{id}/tracks, /search (solo type=artist con genre:, limit ≤ 10). Nada de browse, recomendaciones, audio-features, `popularity`, `/users/{id}/...`, `/tracks` en lotes ni `/playlists/{id}/tracks`. Cualquier endpoint nuevo hay que comprobarlo contra esa lista.
 - Nunca `innerHTML` con datos de Spotify; sin tokens en logs; el service worker no toca otros orígenes.
+- Cuota (v1.3.2): ninguna acción normal debe pasar de unas 40 peticiones (lo mide `tests/e2e/quota.spec.mjs`). La caché vive en IndexedDB (`js/idb.js`) con el id de la cuenta en la clave; las playlists valen mientras no cambie su `snapshot_id`. Lo que escribe en su propio origen (Ordenar, Duplicados, «la misma playlist») lee siempre de Spotify, nunca de la caché. Con QUOTA_EXCEEDED no se reintenta.
+- Errores: nunca un código ni un texto técnico de Spotify en pantalla; cada error pasa por `errorInfo` (mensaje y acción) y queda en el registro local sin nombres ni tokens (`js/diag.js`). Un `UserError` lleva como código su clave de texto.
 - Antes de sobrescribir una playlist: guardar Deshacer (`saveUndo`) y no escribir si la lectura fue incompleta.
 - La versión de la caché la inyecta el despliegue (`__BUILD__` en `sw.js`, hash del commit): no se sube a mano. Si añades un archivo JS a la app, inclúyelo en `SHELL` de `sw.js` (un test lo exige; los de `js/` ya se copian con la carpeta en `pages.yml`).
 - Las playlists que escribe la app sin pedir confirmación son siempre las generadas «· Shuffle» (`js/targets.js`); los enlaces profundos y agitar nunca escriben en el origen.

diff --git a/PRIVACY.md b/PRIVACY.md
@@ -21,8 +21,9 @@ Solo con `accounts.spotify.com` (inicio de sesión y renovación del token), `ap
 | `baraja.theme`, `baraja.cover`, `baraja.shake` | Tema, si se sube portada y si agitar para barajar está activado |
 | `baraja.logoNotice.v12` | Si ya viste el aviso de icono nuevo |
 | `baraja.purge`, `baraja.purgeOk` | Si se quitan las playlists anteriores de Shuffl al crear una nueva y si ya aceptaste la lista la primera vez |
-| `baraja.libIndex` | Qué canciones tienes (ids de canciones de tus playlists y de Tus me gusta, con el `snapshot_id` de cada playlist), para que Descubrir no te proponga lo que ya tienes. Se renueva a las 24 h y se borra al cerrar sesión |
-| `baraja.metaCache` | Caché de 24 h de datos públicos de Spotify: ids y nombres de tus artistas top y seguidos, lanzamientos de esos artistas y canciones de álbumes |
+| `baraja.reqDay` | Cuántas peticiones a Spotify se han hecho hoy (para Diagnóstico) |
+| `baraja.errors` | Los últimos 50 errores: fecha, pantalla, tipo, código de Spotify y ruta de la API sin ids. Nunca nombres, mensajes con datos tuyos ni tokens. Se borra con «Borrar registro» |
+| `baraja.artistsPerSearch` | Artistas por búsqueda en Novedades y Descubre |
 | `baraja.recent` | Las últimas funciones de Descubrir usadas, para «Lo último» de Inicio |
 | `baraja.discoverDays` | Días de Novedades (7, 30 o 90) |
 
@@ -33,6 +34,17 @@ La tarjeta de «Tu resumen» se dibuja en tu navegador y solo sale de él si tú
 Las claves siguen empezando por `baraja.` (el nombre anterior de la app) para no cerrar la sesión de nadie con el cambio de nombre.
 
 Si el navegador bloquea localStorage, Shuffl guarda esos datos en memoria hasta que cierres la pestaña.
+
+## Qué se guarda en IndexedDB (caché para gastar menos cuota)
+
+En la base `shuffl-cache` de tu navegador, con el id de tu cuenta delante de cada clave:
+
+- las canciones de tus playlists y de Tus me gusta que Shuffl ya ha leído (título, artistas, álbum, duración, fecha en que la añadiste y miniatura), con el `snapshot_id` de cada playlist para saber si ha cambiado;
+- tus artistas top y seguidos, sus lanzamientos y las canciones de esos álbumes.
+
+Las canciones valen mientras la playlist no cambie (como mucho 30 días); artistas y lanzamientos, 24 horas. Todo se borra al cerrar sesión, y lo que tiene más de 30 días se borra al abrir la app.
+
+«Copiar informe» (Más → Diagnóstico) copia al portapapeles la versión, el navegador, el contador de peticiones, el resultado de la prueba completa y el registro de errores. No lleva nombres de playlists, de canciones ni de dispositivos, ni tokens, y solo sale de tu dispositivo si tú lo pegas en algún sitio.
 
 Las copias JSON y CSV se generan en tu dispositivo y las guardas tú donde quieras.
 
